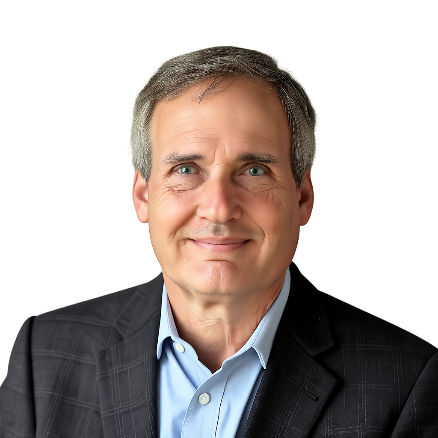
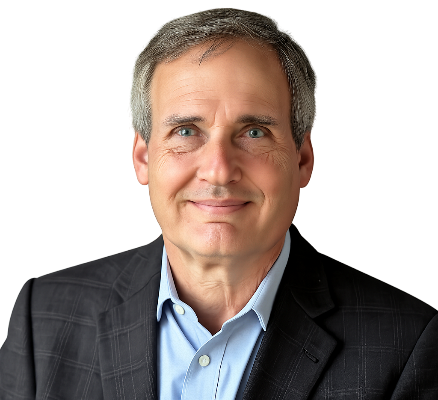
people: add Hugo Simao headshot under Warren's; align both heads with first line of their paragraphs
- Insert Hugo Simao photo (May 2026) on right side of /people/, stacked below Warren's
- <br clear="right" /> after paragraph 1 forces paragraph 2 (and Hugo's photo) to start below Warren
- Trim 38 px of headroom off Warren's headshot so his hair sits near the photo top, matching the alignment Hugo's cropped photo already had
- New asset: assets/images/people/hugo-simao-2026.png (cropped from a 1206x2622 transparent-bg source to 778x703)

diff --git a/_pages/people.md b/_pages/people.md
@@ -9,6 +9,9 @@ date: 2026-06-04
 <img src="/sda-website/assets/images/people/warren-powell-headshot.png" alt="Headshot of Warren B. Powell — silver-grey hair, navy blazer, light blue shirt, smiling, photographed against a plain background" width="208" align="right" style="max-width: 100%; height: auto; margin-left: 1rem; margin-bottom: 0.5rem;" />
 Warren B. Powell taught at Princeton University for 39 years, where he was a founding member of the Department of Operations Research and Financial Engineering. In 1990 he founded CASTLE Laboratory, which he directed until his retirement in 2020. He also founded PENSA, the Princeton Laboratory for Energy Systems Analysis, in 2008 until 2014 when he merged it into CASTLE. See his [biographic summary](/sda-website/biography/) for the full story.
 
+<br clear="right" />
+
+<img src="/sda-website/assets/images/people/hugo-simao-2026.png" alt="Headshot of Hugo Simao — bald, glasses, grey-green collared shirt, smiling, photographed against a transparent background" width="208" align="right" style="max-width: 100%; height: auto; margin-left: 1rem; margin-bottom: 0.5rem;" />
 Special recognition is due to my first Ph.D. student, **Hugo Simao**, who returned in 1990 as the first full-time staff member of CASTLE Lab, where he stayed until his retirement 30 years later. Hugo anchored the lab, providing the skill and leadership that could only come from his steady presence, incredible modeling and software skills. Hugo played the central role on projects with Yellow Freight System, Air Products and Chemicals, Schneider National (producing the software that launched Optimal Dynamics), and the development of the energy planning model, SMART-ISO. Just as important was his ability to teach and nurture students getting used to serious experimental work.
 
 I also need to highlight the work of **Belgacem Bouzaiene-Ayari**, who joined the lab in 1996 as a senior staff member. He handled a number of important projects, but two that really stand out are the development of our locomotive planning model (**PLASMA**) for Norfolk Southern Railway, and writing **Pilotview**, a powerful graphics package that was central to our ability to understand and debug these complex models.